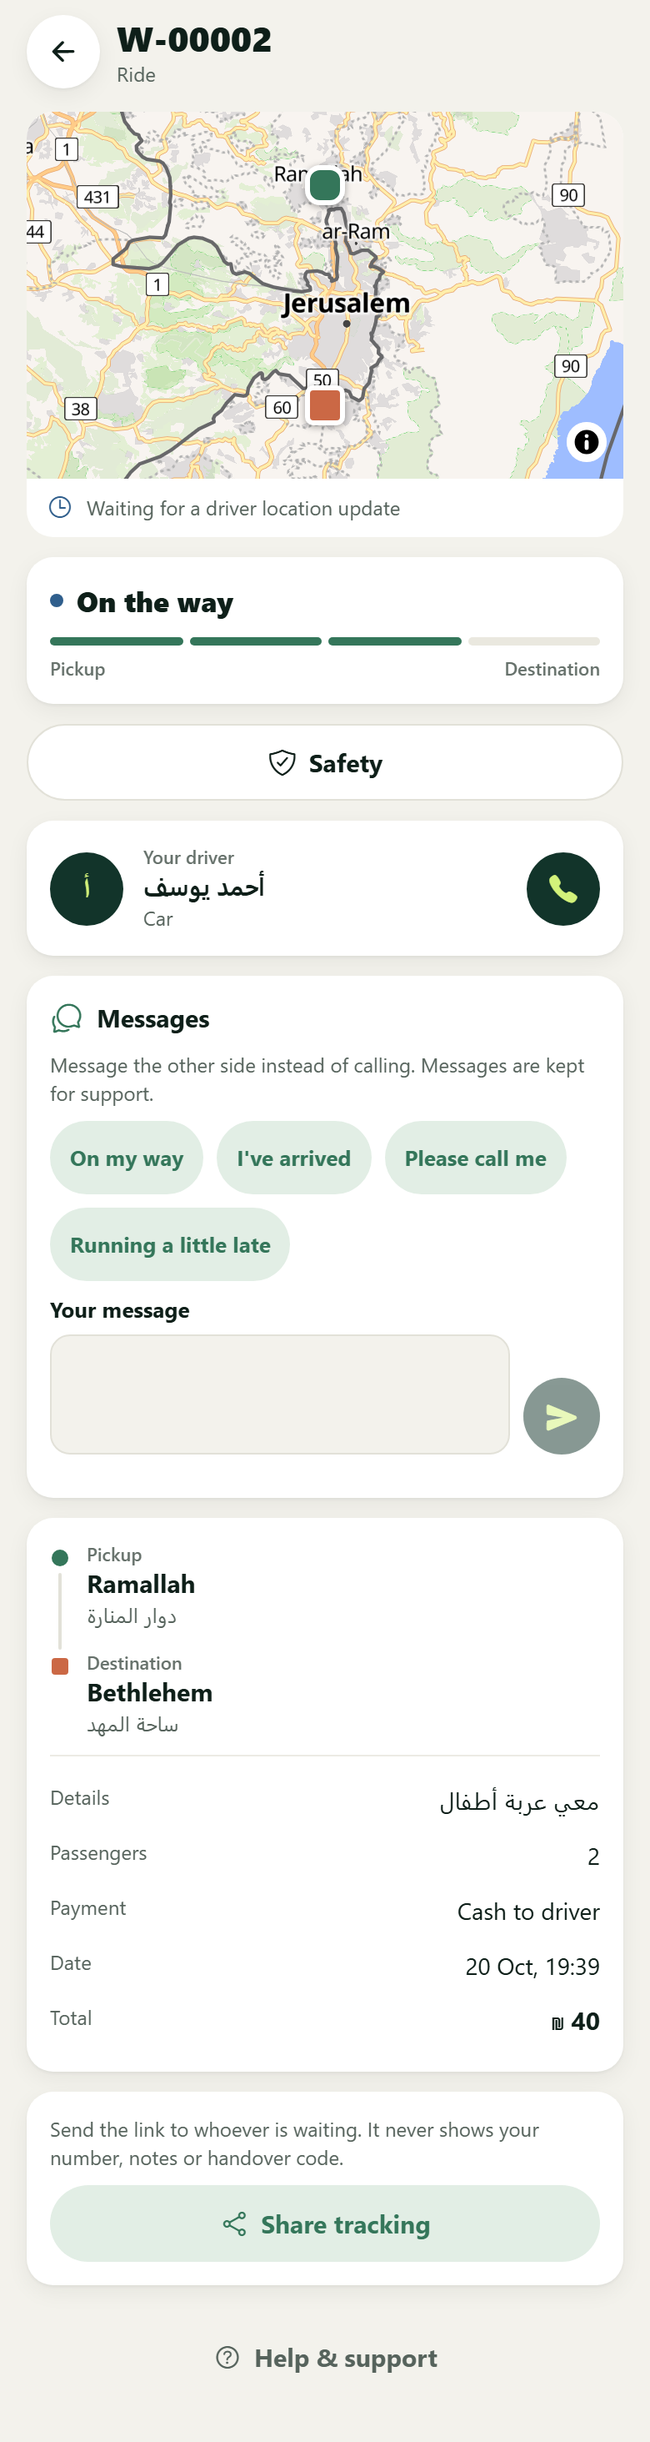
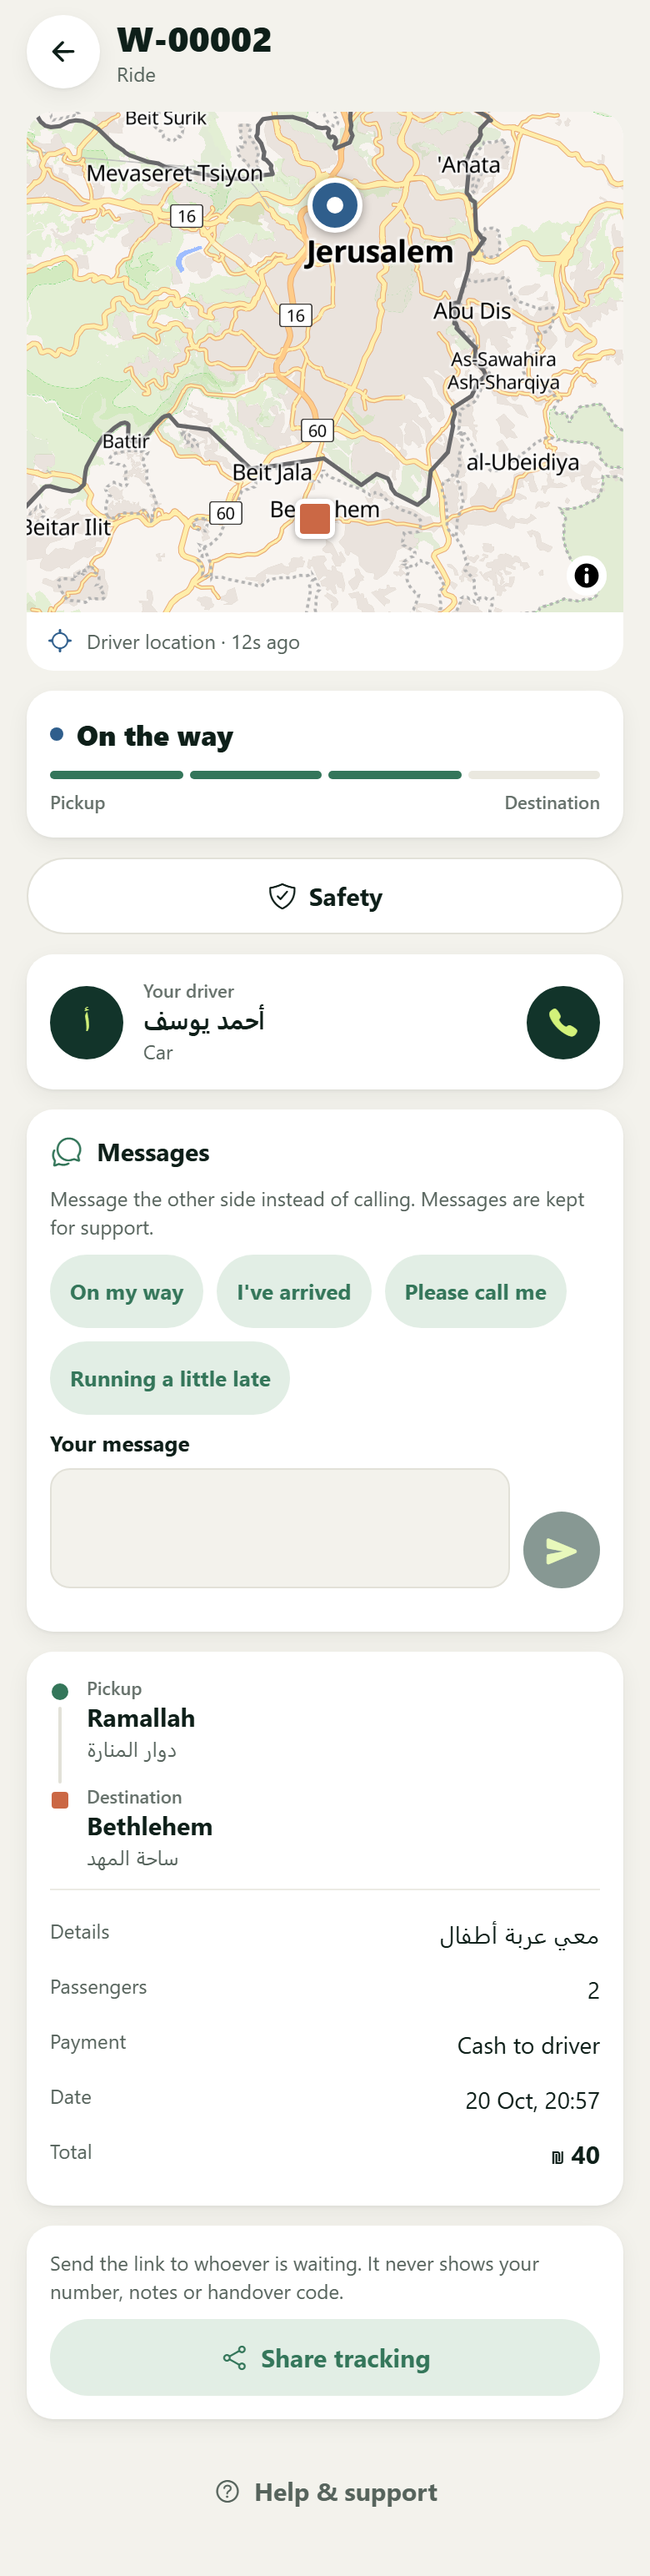
Live tracking: keep last known car, clean arrival line, fresher clock
- Order screen keeps the last fix for the current order and driver, so when
  the server drops a fix after 120 s the car stays on the map, faded, with a
  "last known" caption. Another order or another driver starts with no fix.
- Arriving now: no distance line, since the road distance reads 0.2 km at the
  pin. "Arrive by" rounds up to the next minute.
- The clock ticks every 5 s instead of every 30 s, so the location age stays
  current.
- screens.mjs posts a fresh driver fix before the order-live shot, so that
  screenshot no longer depends on how long the run takes.

Changed region(s): [[0.0308, 0.0, 0.9846, 0.5905], [0.0615, 0.5594, 0.9538, 0.9945], [0.6769, 0.7148, 0.7692, 0.7459]]

diff --git a/src/app/order/[id].tsx b/src/app/order/[id].tsx
@@ -41,7 +41,14 @@ export default function OrderScreen() {
   const { data: polled, error, reload, setData } = useApi<Order>(`/orders/${id}`, 4000);
   // The driver's position comes over the live push as soon as it is stored; the 4 s poll carries everything else.
   const pushed = useLiveFix<NonNullable<Order['driverLocation']>>(polled?.driverId && activeStatuses.includes(polled.status) ? `/orders/${id}/live?driver=${polled.driverId}` : null);
-  const order = useMemo(() => polled && pushed !== undefined ? { ...polled, driverLocation: newerFix(pushed, polled.driverLocation) } : polled, [polled, pushed]);
+  // The server stops sending a fix after 120 s; keep the last one seen for this order and assignment so the map shows
+  // it faded as "last known" instead of dropping the car (a reload, another order or another driver starts without it).
+  const fresh = polled && pushed !== undefined ? newerFix(pushed, polled.driverLocation) : polled?.driverLocation;
+  const assignment = polled && `${polled.id}:${polled.driverId}`;
+  const [kept, setKept] = useState<{ assignment: string; fix?: NonNullable<Order['driverLocation']> }>();
+  if (assignment && (kept?.assignment !== assignment || (fresh && fresh !== kept?.fix))) setKept({ assignment, fix: fresh ?? undefined });
+  const shown = fresh ?? (polled && kept?.assignment === assignment && activeStatuses.includes(polled.status) ? kept?.fix : null) ?? null;
+  const order = useMemo(() => polled && { ...polled, driverLocation: shown }, [polled, shown]);
   const [busy, setBusy] = useState<string | null>(null);
   const [actionError, setActionError] = useState('');
   const [code, setCode] = useState('');
@@ -62,7 +69,7 @@ export default function OrderScreen() {
   const alerts = order ? roadAlerts(roads, order.pickupCity, order.dropoffCity) : [];
   useFocusEffect(useCallback(() => {
     setNow(Date.now());
-    const timer = setInterval(() => setNow(Date.now()), 30_000);
+    const timer = setInterval(() => setNow(Date.now()), 5_000); // location age and arrival clock stay current
     return () => clearInterval(timer);
   }, []));
 

diff --git a/src/parts.tsx b/src/parts.tsx
@@ -99,7 +99,8 @@ export function EtaLine({ eta, toPickup, slow, km, now }: { eta: [number, number
   const [lo, hi] = eta, here = lo <= 1 && !slow; // a checkpoint delay keeps its "or more" wording to the end
   const head = here ? toPickup ? c.arrivingPickup : c.arrivingDropoff
     : fill(toPickup ? slow ? c.etaToPickupSlow : c.etaToPickup : slow ? c.etaToDropoffSlow : c.etaToDropoff, { lo, hi });
-  const detail = [km != null && fill(c.kmAway, { km: kmLabel(km) }), !here && !slow && fill(c.arriveBy, { t: stamp(now + hi * 60_000) })].filter(Boolean).join(' · ');
+  // Arriving: no distance (a road route from a rounded origin still reads 0.2 km at the pin). "By" rounds up a minute.
+  const detail = here ? '' : [km != null && fill(c.kmAway, { km: kmLabel(km) }), !slow && fill(c.arriveBy, { t: stamp(Math.ceil((now + hi * 60_000) / 60_000) * 60_000) })].filter(Boolean).join(' · ');
   // polite: a screen reader hears a new estimate when it changes, without interrupting
   return <View accessibilityLiveRegion="polite"><Row gap={10}>
     <Ionicons name={here ? 'flag' : 'time'} size={22} color={palette.olive} />
